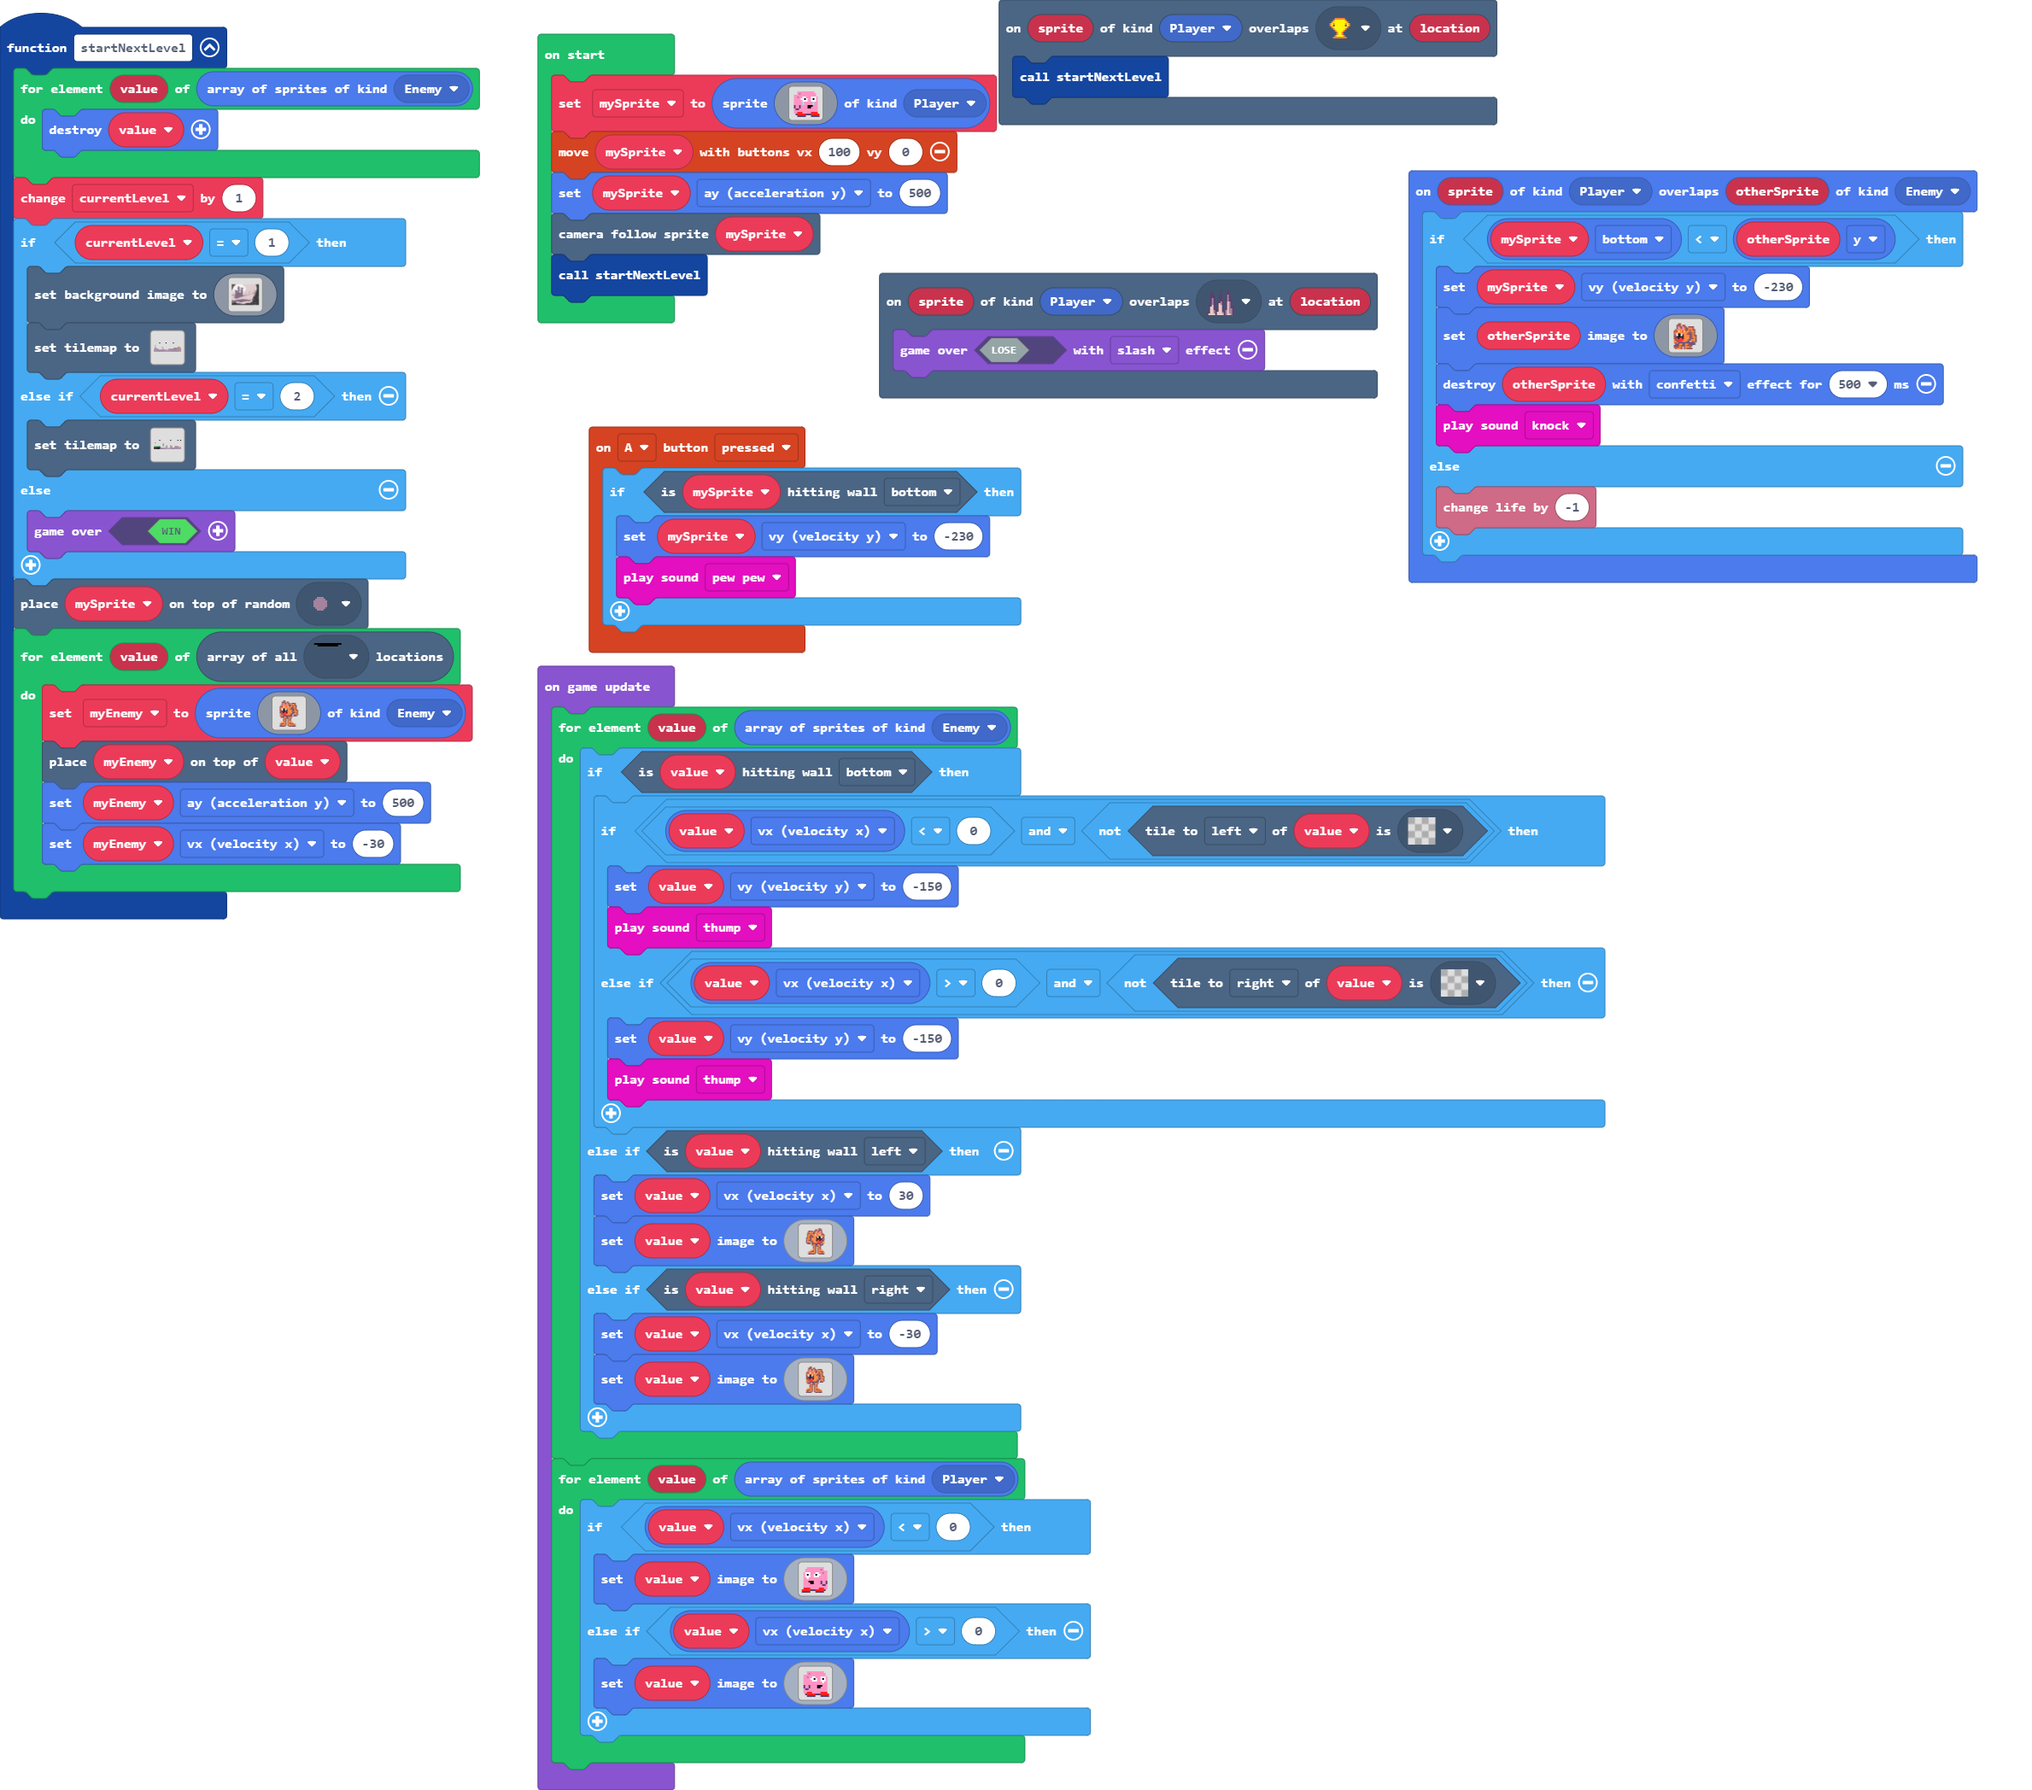
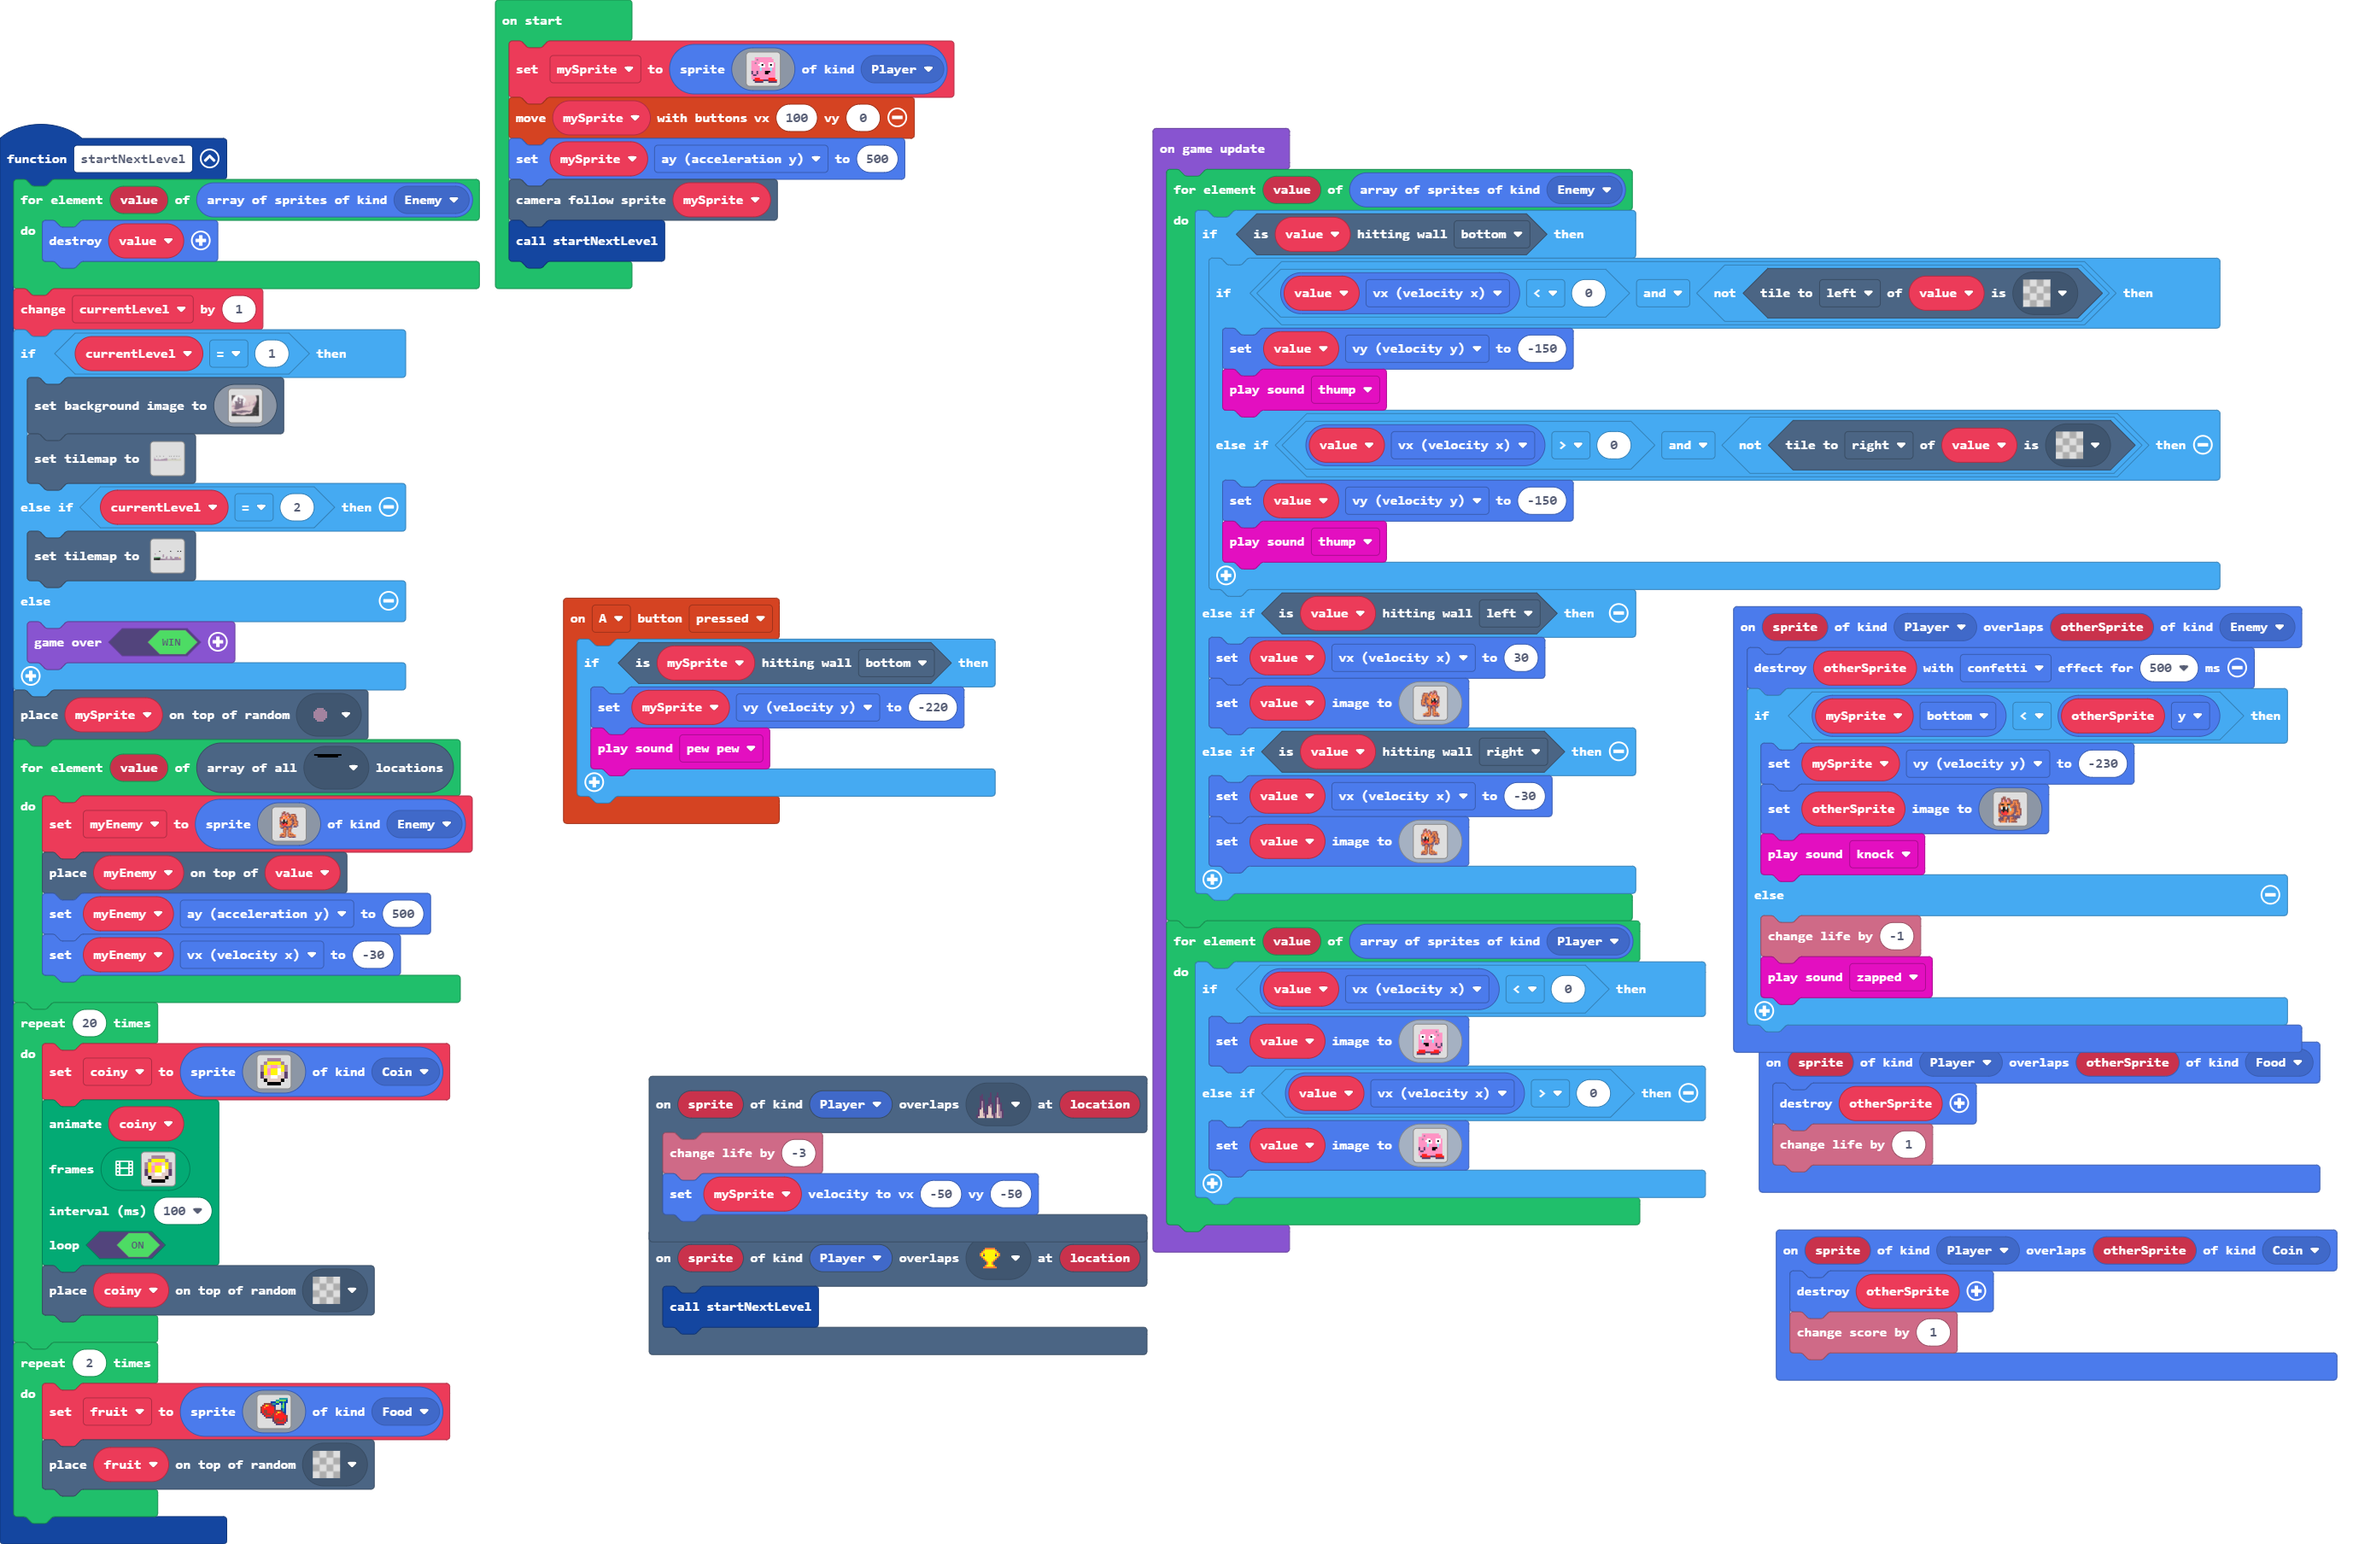
Update main.blocks, main.ts, tilemap.g.jres, tilemap.g.ts

diff --git a/main.ts b/main.ts
@@ -1,9 +1,16 @@
+namespace SpriteKind {
+    export const Coin = SpriteKind.create()
+}
+sprites.onOverlap(SpriteKind.Player, SpriteKind.Coin, function (sprite, otherSprite) {
+    otherSprite.destroy()
+    info.changeScoreBy(1)
+})
 scene.onOverlapTile(SpriteKind.Player, assets.tile`tile4`, function (sprite, location) {
     startNextLevel()
 })
 controller.A.onEvent(ControllerButtonEvent.Pressed, function () {
     if (mySprite.isHittingTile(CollisionDirection.Bottom)) {
-        mySprite.vy = -230
+        mySprite.vy = -220
         music.pewPew.play()
     }
 })
@@ -173,11 +180,111 @@ function startNextLevel () {
         myEnemy.ay = 500
         myEnemy.vx = -30
     }
+    for (let index = 0; index < 20; index++) {
+        coiny = sprites.create(img`
+            . . b b b b . . 
+            . b 5 5 5 5 b . 
+            b 5 d 3 3 d 5 b 
+            b 5 3 5 5 1 5 b 
+            c 5 3 5 5 1 d c 
+            c d d 1 1 d d c 
+            . f d d d d f . 
+            . . f f f f . . 
+            `, SpriteKind.Coin)
+        animation.runImageAnimation(
+        coiny,
+        [img`
+            . . b b b b . . 
+            . b 5 5 5 5 b . 
+            b 5 d 3 3 d 5 b 
+            b 5 3 5 5 1 5 b 
+            c 5 3 5 5 1 d c 
+            c d d 1 1 d d c 
+            . f d d d d f . 
+            . . f f f f . . 
+            `,img`
+            . . b b b . . . 
+            . b 5 5 5 b . . 
+            b 5 d 3 d 5 b . 
+            b 5 3 5 1 5 b . 
+            c 5 3 5 1 d c . 
+            c 5 d 1 d d c . 
+            . f d d d f . . 
+            . . f f f . . . 
+            `,img`
+            . . . b b . . . 
+            . . b 5 5 b . . 
+            . b 5 d 1 5 b . 
+            . b 5 3 1 5 b . 
+            . c 5 3 1 d c . 
+            . c 5 1 d d c . 
+            . . f d d f . . 
+            . . . f f . . . 
+            `,img`
+            . . . b b . . . 
+            . . b 5 5 b . . 
+            . . b 1 1 b . . 
+            . . b 5 5 b . . 
+            . . b d d b . . 
+            . . c d d c . . 
+            . . c 3 3 c . . 
+            . . . f f . . . 
+            `,img`
+            . . . b b . . . 
+            . . b 5 5 b . . 
+            . b 5 1 d 5 b . 
+            . b 5 1 3 5 b . 
+            . c d 1 3 5 c . 
+            . c d d 1 5 c . 
+            . . f d d f . . 
+            . . . f f . . . 
+            `,img`
+            . . . b b b . . 
+            . . b 5 5 5 b . 
+            . b 5 d 3 d 5 b 
+            . b 5 1 5 3 5 b 
+            . c d 1 5 3 5 c 
+            . c d d 1 d 5 c 
+            . . f d d d f . 
+            . . . f f f . . 
+            `],
+        100,
+        true
+        )
+        tiles.placeOnRandomTile(coiny, assets.tile`transparency16`)
+    }
+    for (let index = 0; index < 2; index++) {
+        fruit = sprites.create(img`
+            . . . . . . . . . . . 6 6 6 6 6 
+            . . . . . . . . . 6 6 7 7 7 7 8 
+            . . . . . . 8 8 8 7 7 8 8 6 8 8 
+            . . e e e e c 6 6 8 8 . 8 7 8 . 
+            . e 2 5 4 2 e c 8 . . . 6 7 8 . 
+            e 2 4 2 2 2 2 2 c . . . 6 7 8 . 
+            e 2 2 2 2 2 2 2 c . . . 8 6 8 . 
+            e 2 e e 2 2 2 2 e e e e c 6 8 . 
+            c 2 e e 2 2 2 2 e 2 5 4 2 c 8 . 
+            . c 2 e e e 2 e 2 4 2 2 2 2 c . 
+            . . c 2 2 2 e e 2 2 2 2 2 2 2 e 
+            . . . e c c e c 2 2 2 2 2 2 2 e 
+            . . . . . . . c 2 e e 2 2 e 2 c 
+            . . . . . . . c e e e e e e 2 c 
+            . . . . . . . . c e 2 2 2 2 c . 
+            . . . . . . . . . c c c c c . . 
+            `, SpriteKind.Food)
+        tiles.placeOnRandomTile(fruit, assets.tile`transparency16`)
+    }
 }
 scene.onOverlapTile(SpriteKind.Player, assets.tile`tile2`, function (sprite, location) {
-    game.over(false, effects.slash)
+    info.changeLifeBy(-3)
+    mySprite.setVelocity(-50, -50)
+})
+sprites.onOverlap(SpriteKind.Player, SpriteKind.Food, function (sprite, otherSprite) {
+    otherSprite.destroy()
+    info.changeLifeBy(1)
 })
 sprites.onOverlap(SpriteKind.Player, SpriteKind.Enemy, function (sprite, otherSprite) {
+    otherSprite.destroy(effects.confetti, 500)
     if (mySprite.bottom < otherSprite.y) {
         mySprite.vy = -230
         otherSprite.setImage(img`
@@ -187,11 +294,11 @@ sprites.onOverlap(SpriteKind.Player, SpriteKind.Enemy, function (sprite, otherSp
             ..e3ee3ee.eeee..
             ..e34e34ec444e..
             .e444444ec4e4ee.
-            ee214421e44e44e.
-            e444444444eee4e.
-            e41ff1e44eece4e.
-            ee1ff1f4444ce4ee
-            ecfffff4444ce44e
+            eeff44ffe44e44e.
+            e444444944eee4e.
+            e41ff1e94eece4e.
+            ee1ff1f4944ce4ee
+            ecfffff4944ce44e
             ec2f22f4444cee4e
             4c22222444ec444e
             44c222444ec.4e4c
@@ -201,12 +308,14 @@ sprites.onOverlap(SpriteKind.Player, SpriteKind.Enemy, function (sprite, otherSp
             eeee4e.e444e....
             .e444e.e4eeee...
             `)
-        otherSprite.destroy(effects.confetti, 500)
         music.knock.play()
     } else {
         info.changeLifeBy(-1)
+        music.zapped.play()
     }
 })
+let fruit: Sprite = null
+let coiny: Sprite = null
 let myEnemy: Sprite = null
 let currentLevel = 0
 let mySprite: Sprite = null
@@ -310,8 +419,8 @@ game.onUpdate(function () {
                 . 3 1 1 1 3 3 3 1 1 3 3 b 3 3 . 
                 . 3 1 f 1 3 3 1 f 1 1 3 3 3 3 . 
                 . 3 1 1 1 3 3 1 1 1 3 3 3 3 3 . 
-                . 3 3 1 3 3 3 3 3 3 3 3 3 3 3 . 
-                . 3 3 3 3 3 3 3 3 3 3 3 3 3 3 . 
+                . 3 3 9 3 3 3 3 3 9 3 3 3 3 3 . 
+                . 3 3 9 3 3 3 3 3 9 3 3 3 3 3 . 
                 . 3 3 3 f f f 3 3 3 3 c 3 3 c . 
                 . 3 3 3 3 f f 3 3 3 3 c 3 3 c . 
                 . 3 3 3 3 3 3 3 3 3 3 3 c c 3 . 
@@ -329,8 +438,8 @@ game.onUpdate(function () {
                 . 3 3 b 3 3 1 1 3 3 3 1 1 1 3 . 
                 . 3 3 3 3 1 1 f 1 3 3 1 f 1 3 . 
                 . 3 3 3 3 3 1 1 1 3 3 1 1 1 3 . 
-                . 3 3 3 3 3 3 3 3 3 3 3 1 3 3 . 
-                . 3 3 3 3 3 3 3 3 3 3 3 3 3 3 . 
+                . 3 3 3 3 3 9 3 3 3 3 3 9 3 3 . 
+                . 3 3 3 3 3 9 3 3 3 3 3 9 3 3 . 
                 . c 3 3 c 3 3 3 3 f f f 3 3 3 . 
                 . c 3 3 c 3 3 3 3 f f 3 3 3 3 . 
                 . 3 c c 3 3 3 3 3 3 3 3 3 3 3 . 

diff --git a/tilemap.g.ts b/tilemap.g.ts
@@ -203,19 +203,6 @@ namespace myTiles {
 2 2 2 2 2 2 2 . . . . . . 2 2 . . . 2 2 . . . 2 2 2 2 2 2 2 
 2 2 2 2 2 2 2 . . . . . . 2 2 2 2 2 2 2 . . . 2 2 2 2 2 2 2 
 `, [myTiles.transparency16,myTiles.tile1,myTiles.tile3,myTiles.tile4,myTiles.tile2,myTiles.tile6,sprites.builtin.forestTiles2,sprites.builtin.forestTiles6,sprites.builtin.forestTiles10,sprites.builtin.forestTiles3,sprites.builtin.forestTiles7,sprites.builtin.forestTiles15], TileScale.Sixteen);
-            case "platformer12":
[1 lines of base64/hex data omitted]
-. . . . . . . . . . . . . . . . . . . . . . . . . . . . . . 
-. . . . . . . . . . . . . . . . . . . . . . . . . . . . . . 
-. . . . . . . . . . . . . . . . . . . . . . . . . . . . . . 
-. . . . . . . . . . . . . . . . . . . . . . . . . . . . . . 
-. . . . . . . . . . . . . . . . . . . . . . . . . . . . . . 
-. 2 . . . . . . . 2 . . . . . . . . . . . . . . . . 2 2 2 . 
-. 2 . . . . . . . . . . . . . . . . . . . . . . . 2 2 2 2 . 
-. 2 2 2 2 . . . . . . . . . . . . 2 2 2 2 2 2 2 2 2 2 . . . 
-. 2 2 2 2 2 2 2 2 2 2 2 2 2 2 2 2 2 2 2 2 2 2 2 2 . . . 2 2 
-. . . . . . . . . . . . . . . . . . . . . . . . . . 2 2 2 2 
-`, [myTiles.transparency16,myTiles.tile1,myTiles.tile3,myTiles.tile4,myTiles.tile2,myTiles.tile6], TileScale.Sixteen);
             case "level8":
             case "level8":return tiles.createTilemap(hex`1000100000000000000000000000000000000000000000000000000000000000000000000000000000000000000000000000000000000000000000000000000000000000000000000000000000000000000000000000000000000000000000000000000000000000000000000000000000000000000000000000000000000000000000000000000000000000000000000000000000000000000000000000000000000000000000000000000000000000000000000000000000000000000000000000000000000000000000000000000000000000000000000000000000000000000000000000000000000000000000000000000000000000000000000000000000000000`, img`
 . . . . . . . . . . . . . . . . 
@@ -292,6 +279,19 @@ namespace myTiles {
 . . . . . . . . . . . . . . . . 
 . . . . . . . . . . . . . . . . 
 `, [myTiles.transparency16], TileScale.Sixteen);
+            case "platformer12":
[1 lines of base64/hex data omitted]
+............................................................
+............................................................
+............................................................
+............................................................
+............................................................
+.2.......2................222...............................
+.2.......................2222...............................
+.2222............2222222222...222222222222222222222222222222
+.222222222222222222222222...22222222222222222222222222222222
+..........................2222222222222222222222222222222222
+`, [myTiles.transparency16,myTiles.tile1,myTiles.tile3,myTiles.tile4,myTiles.tile2,myTiles.tile6,sprites.castle.tilePath2], TileScale.Sixteen);
         }
         return null;
     })
